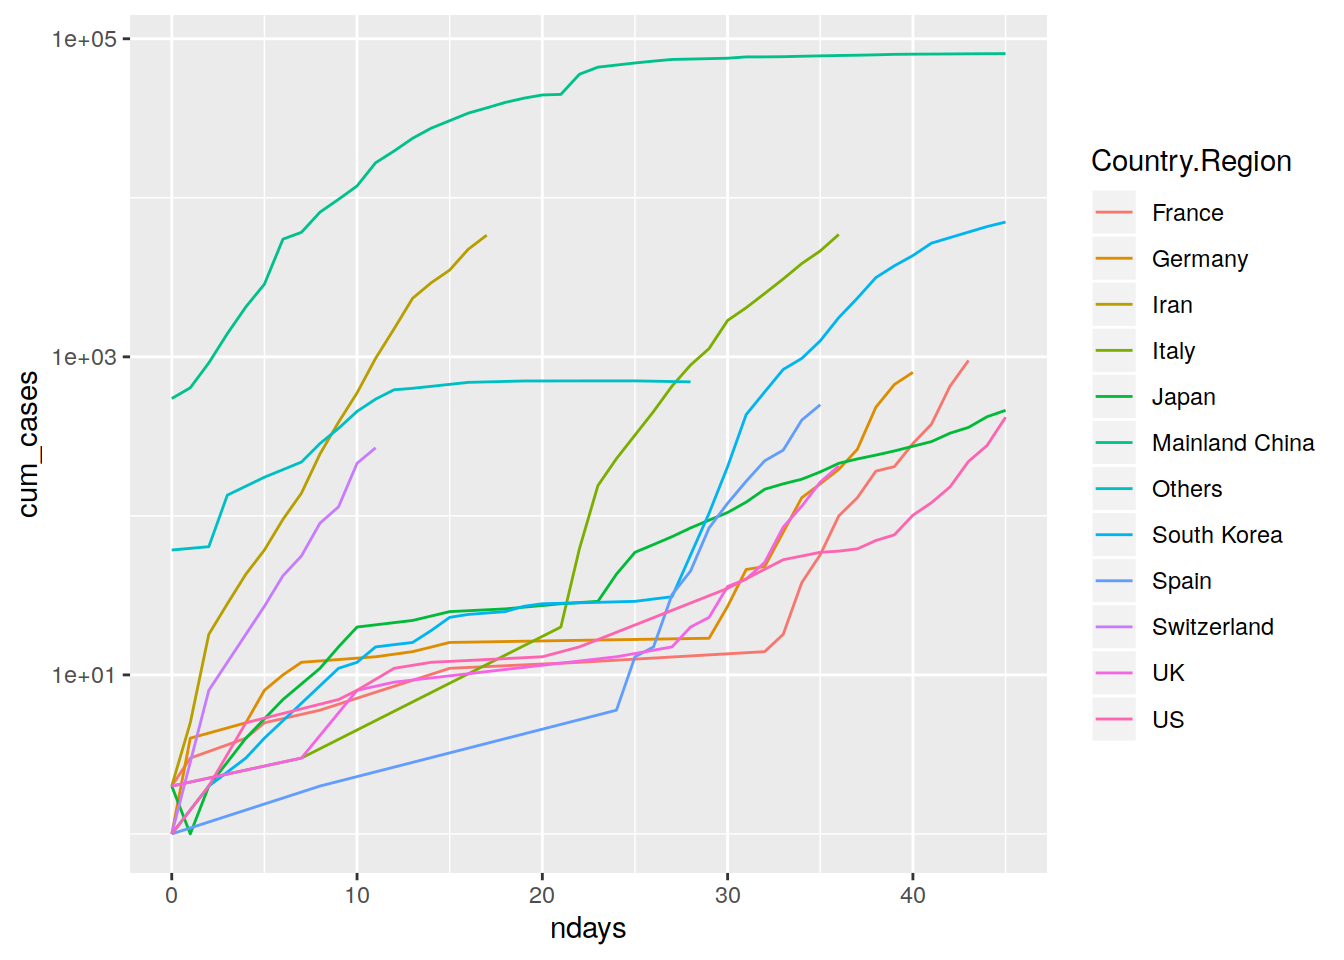
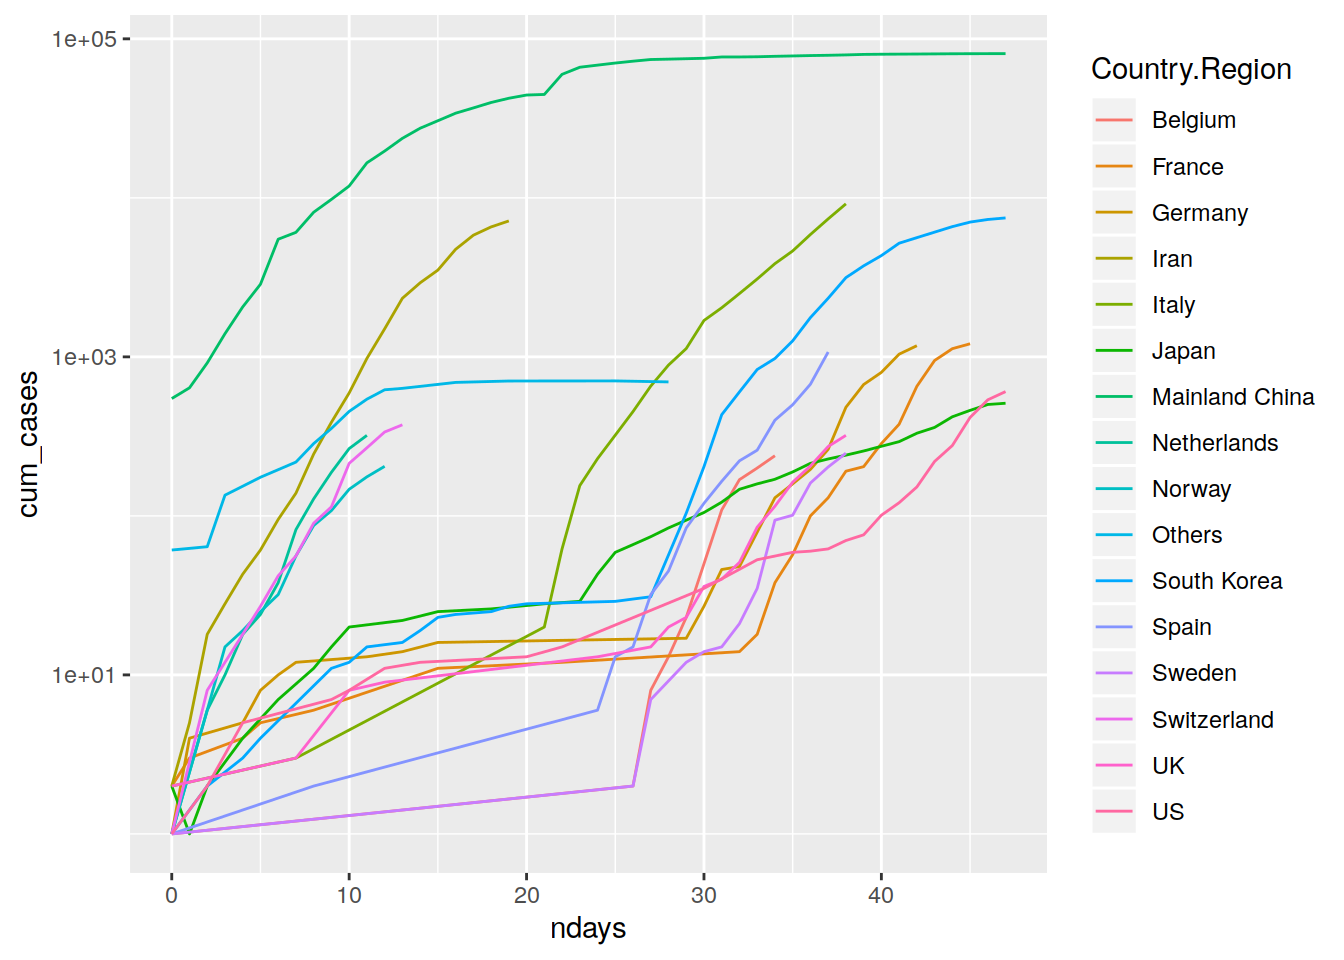
Build site.

diff --git a/docs/basic_stats.html b/docs/basic_stats.html
@@ -406,7 +406,7 @@ div.section {
 <div class="tab-content">
 <div id="summary" class="tab-pane fade in active">
 <p>
-<strong>Last updated:</strong> 2020-03-09
+<strong>Last updated:</strong> 2020-03-10
 </p>
 <p>
 <strong>Checks:</strong> <span class="glyphicon glyphicon-ok text-success" aria-hidden="true"></span> 7 <span class="glyphicon glyphicon-exclamation-sign text-danger" aria-hidden="true"></span> 0
@@ -497,16 +497,22 @@ This reproducible <a href="http://rmarkdown.rstudio.com">R Markdown</a> analysis
 <div class="panel panel-default">
 <div class="panel-heading">
 <p class="panel-title">
-<a data-toggle="collapse" data-parent="#workflowr-checks" href="#strongRepositoryversionstrongahrefhttpsgithubcomdewollercovid19treefdaecfd7ee01f5019d23a532dc316cf4027e746dtargetblankfdaecfda"> <span class="glyphicon glyphicon-ok text-success" aria-hidden="true"></span> <strong>Repository version:</strong> <a href="https://github.com/dewoller/covid-19/tree/fdaecfd7ee01f5019d23a532dc316cf4027e746d" target="_blank">fdaecfd</a> </a>
+<a data-toggle="collapse" data-parent="#workflowr-checks" href="#strongRepositoryversionstrongahrefhttpsgithubcomdewollercovid19treec55fefd8ccc4c11ec4923cf41d5d2216c59317a3targetblankc55fefda"> <span class="glyphicon glyphicon-ok text-success" aria-hidden="true"></span> <strong>Repository version:</strong> <a href="https://github.com/dewoller/covid-19/tree/c55fefd8ccc4c11ec4923cf41d5d2216c59317a3" target="_blank">c55fefd</a> </a>
 </p>
 </div>
[2 lines of base64/hex data omitted]
 <div class="panel-body">
 <p>
 Great! You are using Git for version control. Tracking code development and connecting the code version to the results is critical for reproducibility. The version displayed above was the version of the Git repository at the time these results were generated. <br><br> Note that you need to be careful to ensure that all relevant files for the analysis have been committed to Git prior to generating the results (you can use <code>wflow_publish</code> or <code>wflow_git_commit</code>). workflowr only checks the R Markdown file, but you know if there are other scripts or data files that it depends on. Below is the status of the Git repository when the results were generated:
 </p>
 <pre><code>
-working directory clean
+Ignored files:
+    Ignored:    analysis/figure/
+
+Untracked files:
+    Untracked:  analysis/play.Rmd
+    Untracked:  scripts/
+
 </code></pre>
 <p>
 Note that any generated files, e.g. HTML, png, CSS, etc., are not included in this status report because it is ok for generated content to have uncommitted changes.
@@ -544,6 +550,40 @@ Message
 </tr>
 </thead>
 <tbody>
+<tr>
+<td>
+Rmd
+</td>
+<td>
+<a href="https://github.com/dewoller/covid-19/blob/c55fefd8ccc4c11ec4923cf41d5d2216c59317a3/analysis/basic_stats.Rmd" target="_blank">c55fefd</a>
+</td>
+<td>
+Dennis Wollersheim
+</td>
+<td>
+2020-03-09
+</td>
+<td>
+workflowr::wflow_publish(“analysis/basic_stats.Rmd”)
+</td>
+</tr>
+<tr>
+<td>
+html
+</td>
+<td>
+<a href="https://rawcdn.githack.com/dewoller/covid-19/fd52994c0e3757ae25abde66e95d70897f063282/docs/basic_stats.html" target="_blank">fd52994</a>
+</td>
+<td>
+Dennis Wollersheim
+</td>
+<td>
+2020-03-08
+</td>
+<td>
+Build site.
+</td>
+</tr>
 <tr>
 <td>
 Rmd
@@ -661,7 +701,13 @@ wflow_publish(“analysis/basic_stats.Rmd”)
 <pre class="r"><code>suppressMessages(suppressWarnings( library(tidyverse)))
 library(coronavirus)
 library(wpp2017)
-data(pop)
+library(lubridate)</code></pre>
+<pre><code>
+Attaching package: &#39;lubridate&#39;</code></pre>
+<pre><code>The following object is masked from &#39;package:base&#39;:
+
+    date</code></pre>
+<pre class="r"><code>data(pop)
 
 pop %&gt;% 
   as_tibble() %&gt;% 
@@ -863,6 +909,9 @@ Dennis Wollersheim
 </div>
 <div id="total-cumulative-confirmed-cases-as-a-population-rate" class="section level1">
 <h1>Total cumulative confirmed cases as a population rate</h1>
+<ul>
+<li>greater than 200 cases, or Singapore or Australia</li>
+</ul>
 <p>Note, Japan had -1 cases on day 2</p>
 <pre class="r"><code>coronavirus %&gt;% 
   mutate( name = ifelse(is.na(name), Country.Region, name)) %&gt;%
@@ -874,8 +923,7 @@ Dennis Wollersheim
   summarise( cases=sum(cases), population = min(`2015`)) %&gt;%
   ungroup() %&gt;%
   group_by( Country.Region) %&gt;%
- # filter( Country.Region==&#39;Japan&#39; ) %&gt;%
-  filter( sum(cases) &gt; 200 ) %&gt;%
+  filter( sum(cases) &gt; 200  | Country.Region==&#39;Singapore&#39; | Country.Region==&#39;Australia&#39;) %&gt;%
   arrange( ndays, .by_group=TRUE) %&gt;%
   mutate( cumcases = cumsum(cases), rate = cumsum(cases ) / population  ) %&gt;%
   ggplot(aes( ndays, rate, color=Country.Region)) +
@@ -907,6 +955,17 @@ Date
 <tbody>
 <tr>
 <td>
+<a href="https://github.com/dewoller/covid-19/blob/fd52994c0e3757ae25abde66e95d70897f063282/docs/figure/basic_stats.Rmd/unnamed-chunk-4-1.png" target="_blank">fd52994</a>
+</td>
+<td>
+Dennis Wollersheim
+</td>
+<td>
+2020-03-08
+</td>
+</tr>
+<tr>
+<td>
 <a href="https://github.com/dewoller/covid-19/blob/dfd0e1c0c2bb5a6c015403678ee3895b5c889fef/docs/figure/basic_stats.Rmd/unnamed-chunk-4-1.png" target="_blank">dfd0e1c</a>
 </td>
 <td>
@@ -932,6 +991,47 @@ Dennis Wollersheim
 </div>
 </div>
 </div>
+<div id="new-cases-population-rate-by-week" class="section level1">
+<h1>New cases population rate by week</h1>
+<pre class="r"><code>coronavirus %&gt;% 
+  mutate( name = ifelse(is.na(name), Country.Region, name)) %&gt;%
+  inner_join(pop, by=&#39;name&#39; ) %&gt;% 
+  filter( type==&#39;confirmed&#39; ) %&gt;%
+  group_by( Country.Region ) %&gt;%
+  mutate(week = week(date) ) %&gt;%
+  group_by( Country.Region, week ) %&gt;%
+  summarise( cases=sum(cases), population = min(`2015`)) %&gt;%
+  ungroup() %&gt;%
+  group_by( Country.Region) %&gt;%
+  # filter( Country.Region==&#39;Japan&#39; ) %&gt;%
+  filter( sum(cases) &gt; 200  | Country.Region==&#39;Singapore&#39; | Country.Region==&#39;Australia&#39;) %&gt;%
+  mutate( rate = cases  / population  ) %&gt;%
+  ggplot(aes( week, rate, color=Country.Region)) +
+  geom_line() +
+  scale_y_log10() +
+  scale_x_continuous()</code></pre>
+<p><img src="figure/basic_stats.Rmd/unnamed-chunk-5-1.png" width="672" style="display: block; margin: auto;" /></p>
+</div>
+<div id="new-cases-population-rate-by-day-smoothed" class="section level1">
+<h1>New cases population rate by day, smoothed</h1>
+<pre class="r"><code>coronavirus %&gt;% 
+  mutate( name = ifelse(is.na(name), Country.Region, name)) %&gt;%
+  inner_join(pop, by=&#39;name&#39; ) %&gt;% 
+  filter( type==&#39;confirmed&#39; ) %&gt;%
+  group_by( Country.Region ) %&gt;%
+  group_by( Country.Region, date ) %&gt;%
+  summarise( cases=sum(cases), population = min(`2015`)) %&gt;%
+  ungroup() %&gt;%
+  group_by( Country.Region) %&gt;%
+  # filter( Country.Region==&#39;Japan&#39; ) %&gt;%
+  filter( sum(cases) &gt; 200  | Country.Region==&#39;Singapore&#39; | Country.Region==&#39;Australia&#39;) %&gt;%
+  mutate( rate = cases  / population  ) %&gt;%
+  ggplot(aes( date, rate, color=Country.Region)) +
+  geom_smooth() +
+  scale_y_log10() </code></pre>
+<pre><code>`geom_smooth()` using method = &#39;loess&#39; and formula &#39;y ~ x&#39;</code></pre>
+<p><img src="figure/basic_stats.Rmd/unnamed-chunk-6-1.png" width="672" style="display: block; margin: auto;" /></p>
+</div>
 <div id="new-cases-in-latest-data" class="section level1">
 <h1># new cases in latest data</h1>
 <pre class="r"><code>coronavirus %&gt;% 
@@ -943,21 +1043,21 @@ Dennis Wollersheim
   summarise(total_cases = sum(cases), date=max(date)) %&gt;%
   pivot_wider(names_from = type, values_from = total_cases) %&gt;%
   arrange(-confirmed)</code></pre>
-<pre><code># A tibble: 137 x 5
-# Groups:   country [102]
-   country        date       confirmed death recovered
-   &lt;chr&gt;          &lt;date&gt;         &lt;int&gt; &lt;int&gt;     &lt;int&gt;
- 1 Italy          2020-03-07      1247    36        66
- 2 Iran           2020-03-07      1076    21       756
- 3 South Korea    2020-03-07       448     2        NA
- 4 France         2020-03-07       296     2        NA
- 5 US             2020-03-07       140     3        NA
- 6 Germany        2020-03-07       129    NA         1
- 7 Spain          2020-03-07       100     5        28
- 8 Mainland China 2020-03-07        79    28      1590
- 9 Belgium        2020-03-07        60    NA        NA
-10 Netherlands    2020-03-07        60    NA        NA
-# … with 127 more rows</code></pre>
+<pre><code># A tibble: 154 x 5
+# Groups:   country [111]
+   country     date       confirmed death recovered
+   &lt;chr&gt;       &lt;date&gt;         &lt;int&gt; &lt;int&gt;     &lt;int&gt;
+ 1 Italy       2020-03-09      1797    97       102
+ 2 Iran        2020-03-09       595    43       260
+ 3 Spain       2020-03-09       400    11         2
+ 4 South Korea 2020-03-09       164     3        NA
+ 5 Germany     2020-03-09       136     2        NA
+ 6 France      2020-03-09        83    NA        NA
+ 7 US          2020-03-09        68     1        NA
+ 8 Netherlands 2020-03-09        56    NA        NA
+ 9 Denmark     2020-03-09        55    NA        NA
+10 UK          2020-03-09        48     1        NA
+# … with 144 more rows</code></pre>
 <br>
 <p>
 <button type="button" class="btn btn-default btn-workflowr btn-workflowr-sessioninfo" data-toggle="collapse" data-target="#workflowr-sessioninfo" style="display: block;">
@@ -975,43 +1075,48 @@ BLAS:   /usr/lib/x86_64-linux-gnu/openblas/libblas.so.3
 LAPACK: /usr/lib/x86_64-linux-gnu/libopenblasp-r0.2.20.so
 
 locale:
- [1] LC_CTYPE=en_US.UTF-8       LC_NUMERIC=C              
- [3] LC_TIME=en_US.UTF-8        LC_COLLATE=en_US.UTF-8    
- [5] LC_MONETARY=en_US.UTF-8    LC_MESSAGES=en_US.UTF-8   
- [7] LC_PAPER=en_US.UTF-8       LC_NAME=C                 
+ [1] LC_CTYPE=en_AU.UTF-8       LC_NUMERIC=C              
+ [3] LC_TIME=en_AU.UTF-8        LC_COLLATE=en_AU.UTF-8    
+ [5] LC_MONETARY=en_AU.UTF-8    LC_MESSAGES=en_AU.UTF-8   
+ [7] LC_PAPER=en_AU.UTF-8       LC_NAME=C                 
  [9] LC_ADDRESS=C               LC_TELEPHONE=C            
-[11] LC_MEASUREMENT=en_US.UTF-8 LC_IDENTIFICATION=C       
+[11] LC_MEASUREMENT=en_AU.UTF-8 LC_IDENTIFICATION=C       
 
 attached base packages:
 [1] stats     graphics  grDevices utils     datasets  methods   base     
 
 other attached packages:
- [1] wpp2017_1.2-3          coronavirus_0.1.0.9000 forcats_0.5.0         
- [4] stringr_1.4.0          dplyr_0.8.5            purrr_0.3.3           
- [7] readr_1.3.1            tidyr_1.0.2            tibble_2.1.3          
-[10] ggplot2_3.2.1          tidyverse_1.3.0        nvimcom_0.9-82        
+ [1] lubridate_1.7.4        wpp2017_1.2-3          coronavirus_0.1.0.9000
+ [4] forcats_0.5.0          stringr_1.4.0          dplyr_0.8.5           
+ [7] purrr_0.3.3            readr_1.3.1            tidyr_1.0.2           
+[10] tibble_2.1.3           ggplot2_3.2.1          tidyverse_1.3.0       
 
 loaded via a namespace (and not attached):
- [1] tidyselect_1.0.0     xfun_0.11            haven_2.2.0         
- [4] lattice_0.20-40      colorspace_1.4-1     vctrs_0.2.3         
- [7] generics_0.0.2       htmltools_0.4.0      yaml_2.2.1          
-[10] utf8_1.1.4           rlang_0.4.5          pillar_1.4.3        
-[13] withr_2.1.2          glue_1.3.1           DBI_1.1.0           
-[16] dbplyr_1.4.2         modelr_0.1.6         readxl_1.3.1        
-[19] lifecycle_0.2.0      munsell_0.5.0        gtable_0.3.0        
-[22] workflowr_1.4.0.9001 cellranger_1.1.0     rvest_0.3.5         
-[25] evaluate_0.14        labeling_0.3         knitr_1.28          
-[28] fansi_0.4.1          broom_0.5.4          Rcpp_1.0.3          
-[31] backports_1.1.5      scales_1.1.0         jsonlite_1.6.1      
-[34] farver_2.0.1         fs_1.3.2             hms_0.5.3           
-[37] digest_0.6.25        stringi_1.4.6        grid_3.6.1          
-[40] rprojroot_1.3-2      cli_2.0.2            tools_3.6.1         
-[43] magrittr_1.5         lazyeval_0.2.2       crayon_1.3.4        
-[46] whisker_0.4          pkgconfig_2.0.3      data.table_1.12.8   
-[49] xml2_1.2.2           reprex_0.3.0         lubridate_1.7.4     
-[52] assertthat_0.2.1     rmarkdown_2.1        httr_1.4.1          
-[55] rstudioapi_0.11      R6_2.4.1             nlme_3.1-142        
-[58] git2r_0.26.1         compiler_3.6.1      </code></pre>
+ [1] httr_1.4.1           pkgload_1.0.2        jsonlite_1.6.1      
+ [4] modelr_0.1.6         assertthat_0.2.1     cellranger_1.1.0    
+ [7] yaml_2.2.1           remotes_2.1.1        sessioninfo_1.1.1   
+[10] pillar_1.4.3         backports_1.1.5      lattice_0.20-40     
+[13] glue_1.3.1           digest_0.6.25        rvest_0.3.5         
+[16] colorspace_1.4-1     htmltools_0.4.0      pkgconfig_2.0.3     
+[19] devtools_2.2.2       broom_0.5.4          haven_2.2.0         
+[22] scales_1.1.0         processx_3.4.1       whisker_0.4         
+[25] git2r_0.26.1         farver_2.0.1         generics_0.0.2      
+[28] usethis_1.5.1        ellipsis_0.3.0       withr_2.1.2         
+[31] lazyeval_0.2.2       cli_2.0.2            magrittr_1.5        
+[34] crayon_1.3.4         readxl_1.3.1         memoise_1.1.0       
+[37] evaluate_0.14        ps_1.3.2             fs_1.3.2            
+[40] fansi_0.4.1          nlme_3.1-142         xml2_1.2.2          
+[43] pkgbuild_1.0.6       data.table_1.12.8    tools_3.6.1         
+[46] prettyunits_1.1.1    hms_0.5.3            lifecycle_0.2.0     
+[49] munsell_0.5.0        reprex_0.3.0         callr_3.4.2         
+[52] compiler_3.6.1       rlang_0.4.5          grid_3.6.1          
+[55] rstudioapi_0.11      labeling_0.3         rmarkdown_2.1       
+[58] testthat_2.3.2       gtable_0.3.0         DBI_1.1.0           
+[61] curl_4.3             R6_2.4.1             knitr_1.28          
+[64] utf8_1.1.4           workflowr_1.4.0.9001 rprojroot_1.3-2     
+[67] desc_1.2.0           stringi_1.4.6        Rcpp_1.0.3          
+[70] vctrs_0.2.3          dbplyr_1.4.2         tidyselect_1.0.0    
+[73] xfun_0.11           </code></pre>
 </div>
 </div>
 
